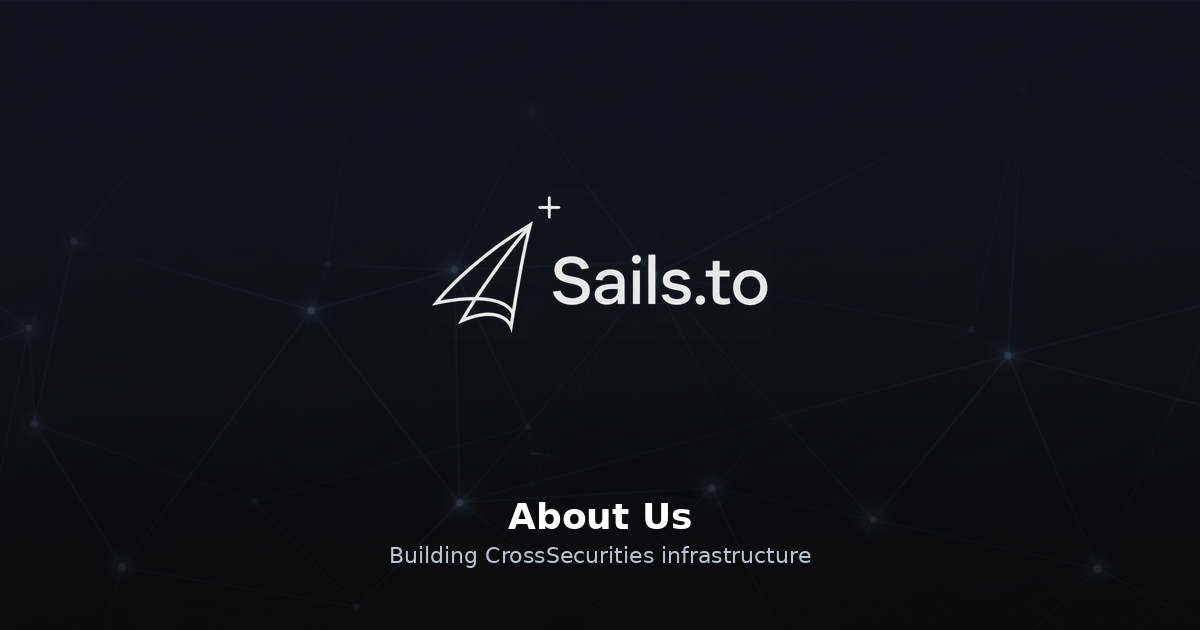
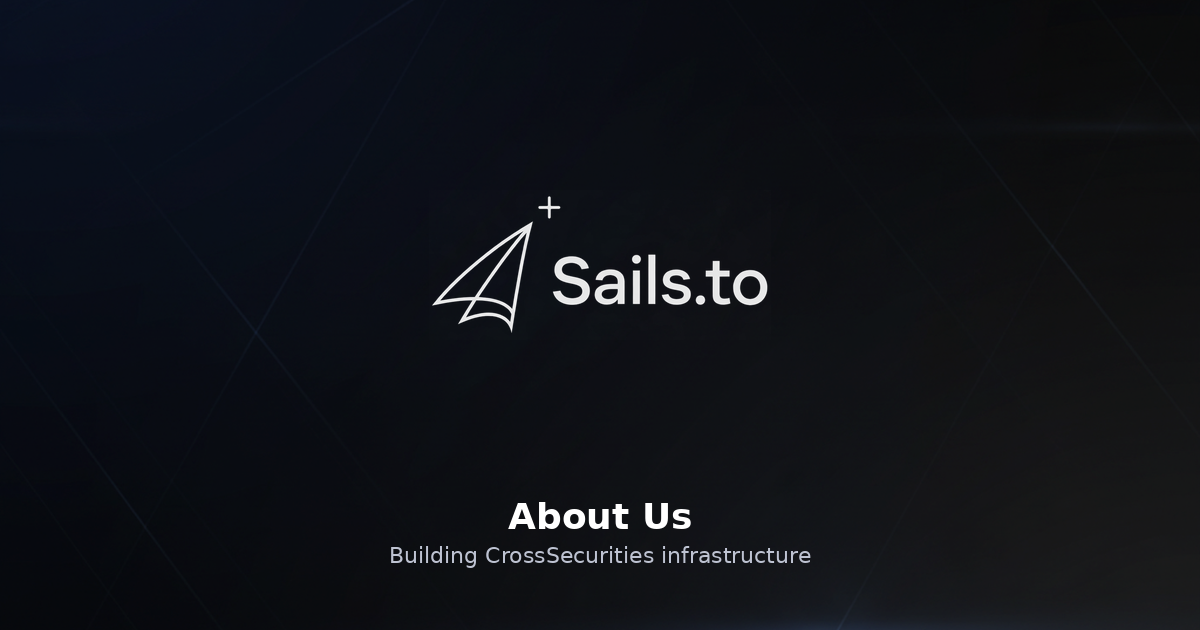
Regenerate all OG images; fix melusina output path

Changed region(s): [[0.555, 0.9651, 0.9867, 1.0]]

diff --git a/qa-testing/generate_og_images.py b/qa-testing/generate_og_images.py
@@ -260,7 +260,7 @@ def do_hrbr():
 def do_melusina():
     logo = os.path.join(REPO_ROOT, 'hugo-site', 'static', 'melulogoimage.png')
     shot = os.path.join(SCREENSHOTS_DIR, 'brand_melusina.png')
-    out = os.path.join(REPO_ROOT, 'INSTAKYCAPP_WEBSITE', 'public')
+    out = os.path.join(REPO_ROOT, 'melusina-os', 'public')
 
     print("\n[melusina-os.org] Generating background from site screenshot...")
     bg = call_ai(
